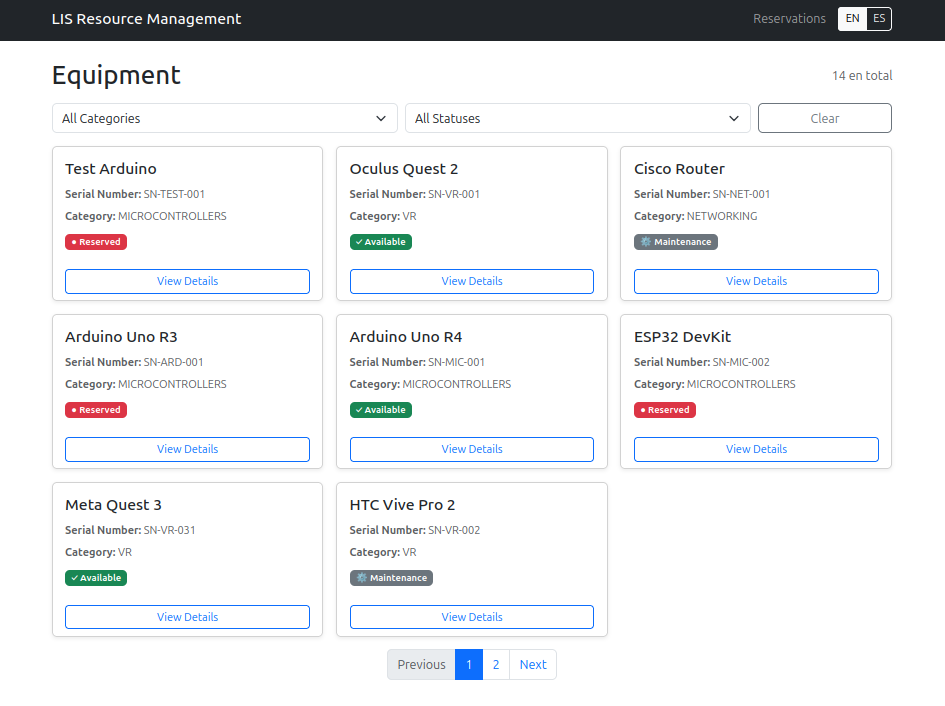
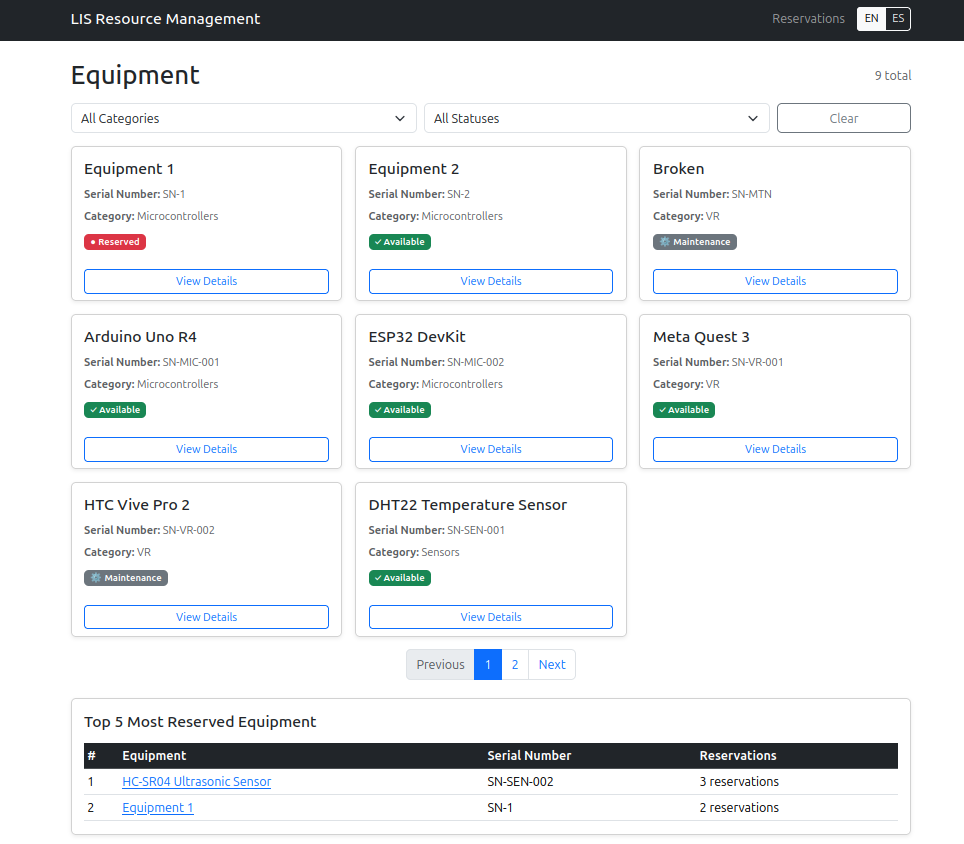
fix: translate enum values, add Top 5 statistics to dashboard, fix broken plural string

diff --git a/frontend/src/views/DashboardView.vue b/frontend/src/views/DashboardView.vue
@@ -1,15 +1,23 @@
 <script setup lang="ts">
 import { ref, watch, onMounted } from 'vue'
 import { useI18n } from 'vue-i18n'
-import { getEquipment } from '../services/equipmentService'
 import type { Equipment, EquipmentCategory, EquipmentStatus } from '../types/equipment'
 import type { ApiError } from '../types/api'
+import api from '../services/api'
+import { getEquipment } from '../services/equipmentService'
 import EquipmentCard from '../components/EquipmentCard.vue'
 import EquipmentFilters from '../components/EquipmentFilters.vue'
 import Pagination from '../components/Pagination.vue'
 import LoadingState from '../components/LoadingState.vue'
 import EmptyState from '../components/EmptyState.vue'
 import ErrorAlert from '../components/ErrorAlert.vue'
+
+interface TopEquipment {
+  equipmentId: number
+  equipmentName: string
+  serialNumber: string
+  reservationCount: number
+}
 
 const { t } = useI18n()
 
@@ -22,6 +30,10 @@ const totalElements = ref(0)
 const first = ref(true)
 const last = ref(true)
 const pageSize = 8
+
+const topEquipment = ref<TopEquipment[]>([])
+const topLoading = ref(true)
+const topError = ref<string | null>(null)
 
 const categoryFilter = ref<EquipmentCategory | undefined>(undefined)
 const statusFilter = ref<EquipmentStatus | undefined>(undefined)
@@ -47,9 +59,26 @@ async function loadEquipment() {
   }
 }
 
+async function loadTopEquipment() {
+  topLoading.value = true
+  topError.value = null
+  try {
+    const { data } = await api.get<TopEquipment[]>('/statistics/top-equipment')
+    topEquipment.value = data
+  } catch (err) {
+    const apiError = err as ApiError
+    topError.value = apiError.message || t('error.generic')
+  } finally {
+    topLoading.value = false
+  }
+}
+
 watch([categoryFilter, statusFilter], () => { page.value = 0; loadEquipment() })
 watch(page, () => loadEquipment())
-onMounted(() => loadEquipment())
+onMounted(() => {
+  loadEquipment()
+  loadTopEquipment()
+})
 </script>
 
 <template>
@@ -78,5 +107,47 @@ onMounted(() => loadEquipment())
       :page="page" :total-pages="totalPages" :first="first" :last="last"
       @update:page="(p: number) => page = p"
     />
+
+    <div class="card shadow-sm mt-4">
+      <div class="card-body">
+        <h5 class="card-title">{{ t('statistics.title') }}</h5>
+
+        <LoadingState v-if="topLoading" :message="t('statistics.loading')" />
+
+        <div v-if="topError" class="alert alert-warning">
+          {{ topError }}
+        </div>
+
+        <EmptyState
+          v-if="!topLoading && !topError && topEquipment.length === 0"
+          :message="t('statistics.noData')"
+        />
+
+        <div v-if="!topLoading && !topError && topEquipment.length > 0" class="table-responsive mt-3">
+          <table class="table table-sm table-hover mb-0">
+            <thead class="table-dark">
+              <tr>
+                <th>#</th>
+                <th>{{ t('equipment.title') }}</th>
+                <th>{{ t('equipment.serialNumber') }}</th>
+                <th>{{ t('reservation.title') }}</th>
+              </tr>
+            </thead>
+            <tbody>
+              <tr v-for="(item, index) in topEquipment" :key="item.equipmentId">
+                <td>{{ index + 1 }}</td>
+                <td>
+                  <router-link :to="{ name: 'equipment-detail', params: { id: item.equipmentId } }">
+                    {{ item.equipmentName }}
+                  </router-link>
+                </td>
+                <td>{{ item.serialNumber }}</td>
+                <td>{{ t('statistics.reservations', { n: item.reservationCount }) }}</td>
+              </tr>
+            </tbody>
+          </table>
+        </div>
+      </div>
+    </div>
   </div>
 </template>

diff --git a/frontend/src/components/EquipmentFilters.vue b/frontend/src/components/EquipmentFilters.vue
@@ -7,8 +7,15 @@ const category = defineModel<EquipmentCategoryType | undefined>('category')
 const status = defineModel<EquipmentStatusType | undefined>('status')
 const { t } = useI18n()
 
-const categories = Object.values(EquipmentCategory)
-const statuses = Object.values(EquipmentStatus)
+const categoryOptions = Object.values(EquipmentCategory).map(cat => ({
+  value: cat,
+  label: t(`equipment.categories.${cat}`),
+}))
+
+const statusOptions = Object.values(EquipmentStatus).map(st => ({
+  value: st,
+  label: t(`equipment.statuses.${st}`),
+}))
 </script>
 
 <template>
@@ -16,13 +23,17 @@ const statuses = Object.values(EquipmentStatus)
     <div class="col-12 col-md-5">
       <select v-model="category" class="form-select" aria-label="Filter by category">
         <option :value="undefined">{{ t('equipment.filters.allCategories') }}</option>
-        <option v-for="cat in categories" :key="cat" :value="cat">{{ cat }}</option>
+        <option v-for="opt in categoryOptions" :key="opt.value" :value="opt.value">
+          {{ opt.label }}
+        </option>
       </select>
     </div>
     <div class="col-12 col-md-5">
       <select v-model="status" class="form-select" aria-label="Filter by status">
         <option :value="undefined">{{ t('equipment.filters.allStatuses') }}</option>
-        <option v-for="st in statuses" :key="st" :value="st">{{ st }}</option>
+        <option v-for="opt in statusOptions" :key="opt.value" :value="opt.value">
+          {{ opt.label }}
+        </option>
       </select>
     </div>
     <div class="col-6 col-md-2">

diff --git a/frontend/src/views/EquipmentDetailView.vue b/frontend/src/views/EquipmentDetailView.vue
@@ -76,7 +76,7 @@ onMounted(() => { loadEquipment(); loadReservations() })
         <div class="row mb-2"><div class="col-sm-4 fw-bold">{{ t('equipment.id') }}</div><div class="col-sm-8">{{ equipment.id }}</div></div>
         <div class="row mb-2"><div class="col-sm-4 fw-bold">{{ t('equipment.serialNumber') }}</div><div class="col-sm-8">{{ equipment.serialNumber }}</div></div>
         <div v-if="equipment.macAddress" class="row mb-2"><div class="col-sm-4 fw-bold">{{ t('equipment.macAddress') }}</div><div class="col-sm-8">{{ equipment.macAddress }}</div></div>
-        <div class="row mb-2"><div class="col-sm-4 fw-bold">{{ t('equipment.category') }}</div><div class="col-sm-8">{{ equipment.category }}</div></div>
+        <div class="row mb-2"><div class="col-sm-4 fw-bold">{{ t('equipment.category') }}</div><div class="col-sm-8">{{ t(`equipment.categories.${equipment.category}`) }}</div></div>
         <div class="row mb-2"><div class="col-sm-4 fw-bold">{{ t('equipment.statusLabel') }}</div><div class="col-sm-8"><EquipmentStatusBadge :status="equipment.status" /></div></div>
         <div class="row mb-2"><div class="col-sm-4 fw-bold">{{ t('equipment.created') }}</div><div class="col-sm-8">{{ new Date(equipment.createdAt).toLocaleString() }}</div></div>
         <div class="row mb-2"><div class="col-sm-4 fw-bold">{{ t('equipment.updated') }}</div><div class="col-sm-8">{{ new Date(equipment.updatedAt).toLocaleString() }}</div></div>

diff --git a/frontend/src/components/EquipmentCard.vue b/frontend/src/components/EquipmentCard.vue
@@ -18,7 +18,7 @@ const { t } = useI18n()
       </p>
       <p class="card-text mb-2">
         <small class="text-muted">
-          <strong>{{ t('equipment.category') }}:</strong> {{ equipment.category }}
+          <strong>{{ t('equipment.category') }}:</strong> {{ t(`equipment.categories.${equipment.category}`) }}
         </small>
       </p>
       <EquipmentStatusBadge :status="equipment.status" />

diff --git a/frontend/src/__tests__/components/EquipmentCard.test.ts b/frontend/src/__tests__/components/EquipmentCard.test.ts
@@ -43,7 +43,7 @@ describe('EquipmentCard', () => {
 
   it('renders category', () => {
     const wrapper = mountCard()
-    expect(wrapper.text()).toContain('MICROCONTROLLERS')
+    expect(wrapper.text()).toContain('Microcontrollers')
   })
 
   it('shows View Details link', () => {
